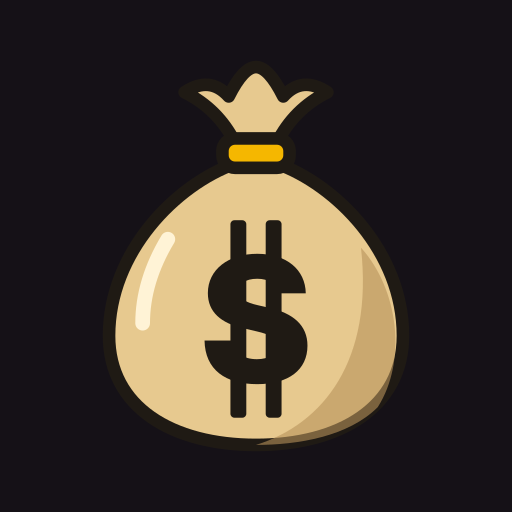
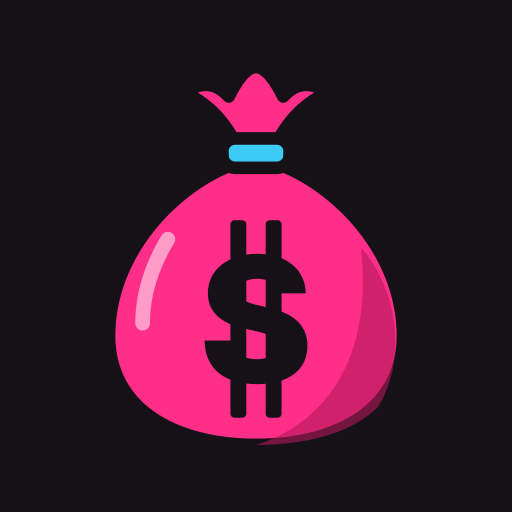
Pink money bag, electric cyan as second highlight
- Logo and all icons: hot-pink bag, plum-black outline, cyan neck band
- New --accent-2 (#3CCBF4): stock tag and allocation, buy-list rule; ETFs use the pink
- Drop the burlap color; brand.md updated

Claude-Session: https://claude.ai/code/session_01PigHQYbuYADomZACR9uV9n

Changed region(s): [[0.2188, 0.125, 0.7812, 0.875]]

diff --git a/css/style.css b/css/style.css
@@ -14,7 +14,7 @@
   --accent: #FF2E88;    /* hot pink: actions & highlights */
   --accent-hi: #FF5CA3;
   --on-accent: #151117;
-  --burlap: #E7C98F;
+  --accent-2: #3CCBF4;  /* electric cyan: second highlight */
   --up: #5BD48A;
   --up-dim: rgba(91, 212, 138, 0.13);
   --down: #FF9F4A;
@@ -182,8 +182,8 @@ h1 em.down { color: var(--down); }
 
 /* ---------- signed-in app shell ---------- */
 :root {
-  --stocks: #5590ea;
-  --etfs: #E7C98F;   /* burlap */
+  --stocks: var(--accent-2);
+  --etfs: var(--accent);
   --tabbar-h: 64px;
 }
 body.has-tabbar { padding-bottom: calc(var(--tabbar-h) + 28px + env(safe-area-inset-bottom)); }
@@ -304,8 +304,8 @@ body.has-tabbar { padding-bottom: calc(var(--tabbar-h) + 28px + env(safe-area-in
 .holding:hover .row__sym { color: var(--accent); }
 .holding__sub { font: 400 12px/1.4 var(--mono); color: var(--ink-3); margin-top: 3px; }
 .holding__tag { display: inline-block; font: 600 10px/1 var(--sans); letter-spacing: .06em; text-transform: uppercase; padding: 3px 6px; border-radius: 4px; margin-left: 6px; vertical-align: 2px; }
-.holding__tag--stock { color: var(--stocks); background: rgba(85, 144, 234, .14); }
-.holding__tag--etf { color: var(--etfs); background: rgba(231, 201, 143, .14); }
+.holding__tag--stock { color: var(--stocks); background: rgba(60, 203, 244, .14); }
+.holding__tag--etf { color: var(--etfs); background: rgba(255, 46, 136, .14); }
 .stale { color: #FFC861; }
 .pf-total { display: flex; justify-content: space-between; padding: 14px 18px; border-top: 1px solid var(--line); font: 600 14px/1 var(--mono); }
 
@@ -365,7 +365,7 @@ body.sheet-open { overflow: hidden; }
 .pos__body { padding: 0 0 16px; animation: viewin .2s ease-out; }
 .pos__chart { height: 300px; margin: 0 -8px 10px; border-radius: 12px; background: var(--bg); overflow: hidden; }
 .pos__nochart { margin: 0; height: 100%; display: grid; place-items: center; padding: 18px; text-align: center; color: var(--ink-3); font-size: 14px; }
-.lots { list-style: none; margin: 0; padding: 0; border-left: 2px solid var(--accent); }
+.lots { list-style: none; margin: 0; padding: 0; border-left: 2px solid var(--accent-2); }
 .lot {
   display: grid; grid-template-columns: minmax(0, 1fr) auto; gap: 2px 12px; padding: 10px 0 10px 14px;
   color: inherit; text-decoration: none; font: 400 13px/1.35 var(--mono); border-radius: 0 8px 8px 0;

diff --git a/index.html b/index.html
@@ -12,7 +12,7 @@
   <link rel="apple-touch-icon" href="apple-touch-icon.png" />
   <link rel="manifest" href="site.webmanifest" />
   <link rel="preload" href="fonts/inter-tight.woff" as="font" type="font/woff" crossorigin />
-  <link rel="stylesheet" href="css/style.css?v=11" />
+  <link rel="stylesheet" href="css/style.css?v=12" />
 </head>
 <body>
   <header class="top">
@@ -139,6 +139,6 @@
 
   <div class="toast" id="toast" role="status" hidden></div>
 
-  <script type="module" src="js/app.js?v=11"></script>
+  <script type="module" src="js/app.js?v=12"></script>
 </body>
 </html>

diff --git a/brand.md b/brand.md
@@ -2,8 +2,8 @@
 
 ## Logo
 
-A cartoon cloth money bag ("Sack"): burlap body, warm-ink outline, rope-gold neck band, and the
-double-bar dollar sign on the front.
+A cartoon cloth money bag ("Sack"): hot-pink body, plum-black outline, electric-cyan neck band,
+and the double-bar dollar sign on the front.
 
 - `img/logo.svg`: full logo, transparent background
 - `img/dollar.svg`: the double-bar dollar on its own (single color, use as a CSS mask)
@@ -17,7 +17,7 @@ recurring Stonks glyph: section markers (the hero eyebrow), list icons, buttons.
 
 ## Pink palette
 
-Hot pink is the single highlight. Gains stay green; losses are orange so they never read as the brand pink.
+Hot pink is the main highlight, electric cyan the second. Gains stay green; losses are orange so they never read as the brand pink.
 
 | Token | Hex | CSS var | Use |
 |---|---|---|---|
@@ -32,10 +32,10 @@ Hot pink is the single highlight. Gains stay green; losses are orange so they ne
 | Gain | `#5BD48A` | `--up` | Up moves, always with a + sign or ▲ |
 | Loss | `#FF9F4A` | `--down` | Down moves, always with a − sign or ▼ |
 | Warning | `#FFC861` | – | Stale prices, notes |
-| Burlap | `#E7C98F` | `--burlap`, `--etfs` | Logo tint, ETF tag |
-| Stocks | `#5590EA` | `--stocks` | Stock tag, allocation bar |
+| Electric cyan | `#3CCBF4` | `--accent-2`, `--stocks` | Second highlight: logo neck band, stock tag and allocation, buy list rule |
+| (ETFs) | `#FF2E88` | `--etfs` | ETF tag and allocation use the pink |
 
-The logo keeps its own colors (burlap bag, warm-ink outline `#1F1A14`, gold neck band `#F5B700`).
+Logo colors: pink `#FF2E88`, pink shade `#B3175A`, pink highlight `#FF9CC8`, outline and $ `#151117`, neck band `#3CCBF4`.
 
 Type on the site: Instrument Serif (display, wordmark), Inter Tight (UI), JetBrains Mono (numbers).
 
